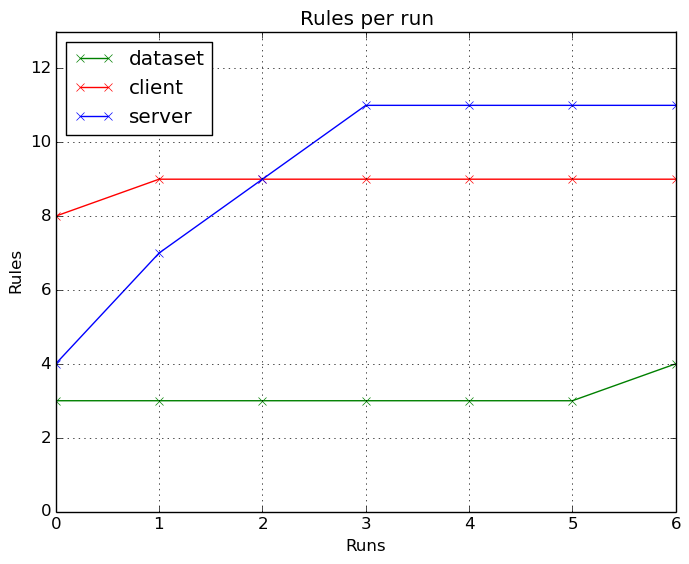
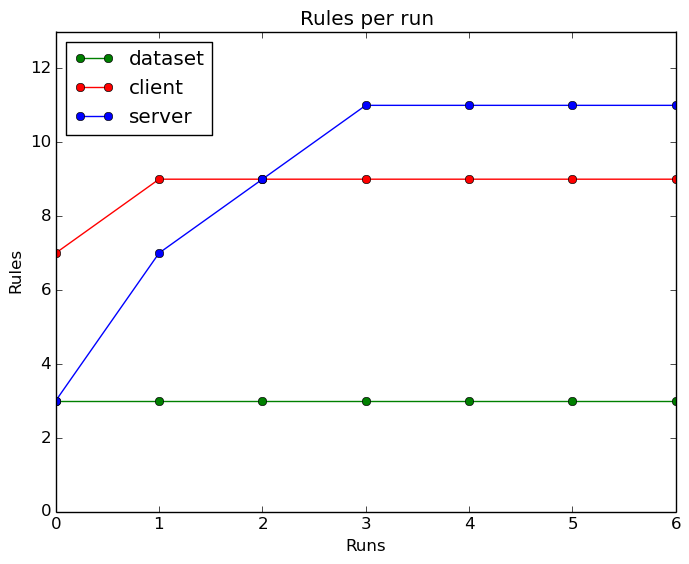
Fixed version 1 profiles - no blanklines between brackets so that we have proper graphs.

diff --git a/Benchmarks/media-streaming/Parser/metrics/plot_rules_total.py b/Benchmarks/media-streaming/Parser/metrics/plot_rules_total.py
@@ -43,12 +43,12 @@ x_Axis = range(int(num_of_runs))
 
 fig = plt.figure()
 ax = fig.add_subplot(111)
-ax.plot(x_Axis, rules[0], label="dataset", color="green", marker='x')
-ax.plot(x_Axis, rules[1], label="client", color="red", marker='x')
-ax.plot(x_Axis, rules[2], label="server", color="blue", marker='x')
+ax.plot(x_Axis, rules[0], label="dataset", color="green", marker='o')
+ax.plot(x_Axis, rules[1], label="client", color="red", marker='o')
+ax.plot(x_Axis, rules[2], label="server", color="blue", marker='o')
 
 ax.legend(loc=0)
-ax.grid()
+#ax.grid()
 ax.set_xlabel("Runs")
 ax.set_ylabel(r"Rules")
 ax.set_ylim(0,max_value+2)
@@ -102,27 +102,27 @@ for x1 in range(complain_enforce[0], int(num_of_runs)): #complain_enforce[1]+1):
 #    part_4c.append(rules[2][x1])
 
 ax1 = fig.add_subplot(311)
-ax1.plot(compl_rules, part_1a, label="complain", color="blue", marker='x') 
-ax1.plot(enf_rules, part_2a, label="enforce", color="red", marker='x')
+ax1.plot(compl_rules, part_1a, label="complain", color="blue", marker='o') 
+ax1.plot(enf_rules, part_2a, label="enforce", color="red", marker='o')
 #ax1.plot(compl_audit, part_3a, label="complain audit", color="green", marker='x')
 #ax1.plot(enf_audit, part_4a, label="enforce audit", color="darkmagenta", marker='x')
 
 ax2 = fig.add_subplot(312)
-ax2.plot(compl_rules, part_1b, label="complain", color="blue", marker='x')
-ax2.plot(enf_rules, part_2b, label="enforce", color="red", marker='x')
+ax2.plot(compl_rules, part_1b, label="complain", color="blue", marker='o')
+ax2.plot(enf_rules, part_2b, label="enforce", color="red", marker='o')
 #ax2.plot(compl_audit, part_3b, label="complain audit", color="green", marker='x')
 #ax2.plot(enf_audit, part_4b, label="enforce audit", color="darkmagenta", marker='x')
 
 ax3 = fig.add_subplot(313)
-ax3.plot(compl_rules, part_1c, label="complain", color="blue", marker='x')
-ax3.plot(enf_rules, part_2c, label="enforce", color="red", marker='x')
+ax3.plot(compl_rules, part_1c, label="complain", color="blue", marker='o')
+ax3.plot(enf_rules, part_2c, label="enforce", color="red", marker='o')
 #ax3.plot(compl_audit, part_3c, label="complain audit", color="green", marker='x')
 #ax3.plot(enf_audit, part_4c, label="enforce audit", color="darkmagenta", marker='x')
 
 ax1.legend(loc=1,prop={'size': 12})
-ax1.grid()
-ax2.grid()
-ax3.grid()
+#ax1.grid()
+#ax2.grid()
+#ax3.grid()
 ax3.set_xlabel("Runs")
 ax1.set_ylabel(r"Dataset rules")
 ax2.set_ylabel(r"Server rules")

diff --git a/Parser/metrics/plot_rules_total.py b/Parser/metrics/plot_rules_total.py
@@ -43,12 +43,12 @@ x_Axis = range(int(num_of_runs))
 
 fig = plt.figure()
 ax = fig.add_subplot(111)
-ax.plot(x_Axis, rules[0], label="dataset", color="green", marker='x')
-ax.plot(x_Axis, rules[1], label="client", color="red", marker='x')
-ax.plot(x_Axis, rules[2], label="server", color="blue", marker='x')
+ax.plot(x_Axis, rules[0], label="dataset", color="green", marker='o')
+ax.plot(x_Axis, rules[1], label="client", color="red", marker='o')
+ax.plot(x_Axis, rules[2], label="server", color="blue", marker='o')
 
 ax.legend(loc=0)
-ax.grid()
+#ax.grid()
 ax.set_xlabel("Runs")
 ax.set_ylabel(r"Rules")
 ax.set_ylim(0,max_value+2)
@@ -102,27 +102,27 @@ for x1 in range(complain_enforce[0], int(num_of_runs)): #complain_enforce[1]+1):
 #    part_4c.append(rules[2][x1])
 
 ax1 = fig.add_subplot(311)
-ax1.plot(compl_rules, part_1a, label="complain", color="blue", marker='x') 
-ax1.plot(enf_rules, part_2a, label="enforce", color="red", marker='x')
+ax1.plot(compl_rules, part_1a, label="complain", color="blue", marker='o') 
+ax1.plot(enf_rules, part_2a, label="enforce", color="red", marker='o')
 #ax1.plot(compl_audit, part_3a, label="complain audit", color="green", marker='x')
 #ax1.plot(enf_audit, part_4a, label="enforce audit", color="darkmagenta", marker='x')
 
 ax2 = fig.add_subplot(312)
-ax2.plot(compl_rules, part_1b, label="complain", color="blue", marker='x')
-ax2.plot(enf_rules, part_2b, label="enforce", color="red", marker='x')
+ax2.plot(compl_rules, part_1b, label="complain", color="blue", marker='o')
+ax2.plot(enf_rules, part_2b, label="enforce", color="red", marker='o')
 #ax2.plot(compl_audit, part_3b, label="complain audit", color="green", marker='x')
 #ax2.plot(enf_audit, part_4b, label="enforce audit", color="darkmagenta", marker='x')
 
 ax3 = fig.add_subplot(313)
-ax3.plot(compl_rules, part_1c, label="complain", color="blue", marker='x')
-ax3.plot(enf_rules, part_2c, label="enforce", color="red", marker='x')
+ax3.plot(compl_rules, part_1c, label="complain", color="blue", marker='o')
+ax3.plot(enf_rules, part_2c, label="enforce", color="red", marker='o')
 #ax3.plot(compl_audit, part_3c, label="complain audit", color="green", marker='x')
 #ax3.plot(enf_audit, part_4c, label="enforce audit", color="darkmagenta", marker='x')
 
 ax1.legend(loc=1,prop={'size': 12})
-ax1.grid()
-ax2.grid()
-ax3.grid()
+#ax1.grid()
+#ax2.grid()
+#ax3.grid()
 ax3.set_xlabel("Runs")
 ax1.set_ylabel(r"Dataset rules")
 ax2.set_ylabel(r"Server rules")
